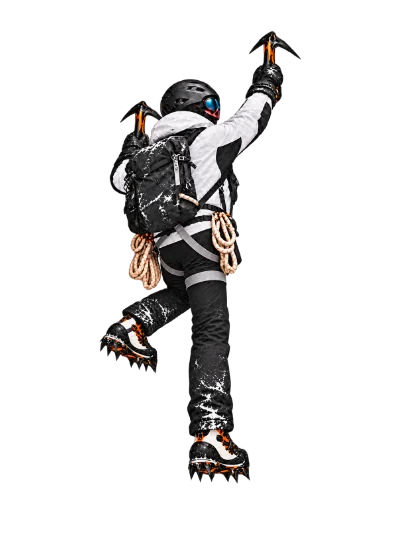
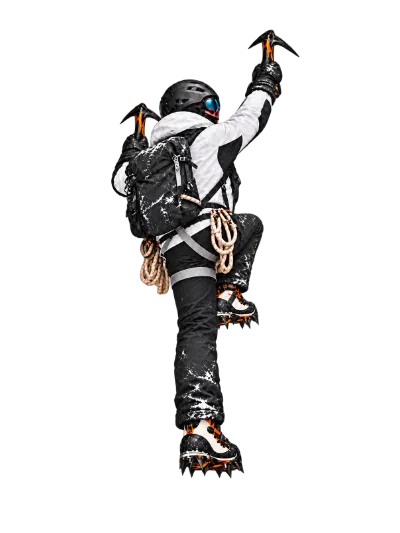
Tuck the left climbing knee behind the support leg

diff --git a/_includes/expedition.html b/_includes/expedition.html
@@ -22,7 +22,7 @@
         <ellipse class="expedition-contact-shadow" data-expedition-contact rx="17" ry="5" filter="url(#expedition-contact-blur)" />
         <g class="expedition-climber" data-expedition-climber>
           <svg x="-54" y="-106" width="88" height="117" viewBox="0 0 400 533" overflow="visible">
-            <image data-climber-frame-primary href="{{ '/assets/media/ascent-climber-frame-01.webp' | relative_url }}?v=ascent-17" width="400" height="533" />
+            <image data-climber-frame-primary href="{{ '/assets/media/ascent-climber-frame-01.webp' | relative_url }}?v=ascent-18" width="400" height="533" />
           </svg>
         </g>
       </g>

diff --git a/_layouts/default.html b/_layouts/default.html
@@ -19,7 +19,7 @@
   <script src="{{ '/assets/js/site.js' | relative_url }}" defer></script>
   <script src="{{ '/assets/js/experience.js' | relative_url }}" defer></script>
   <script src="{{ '/assets/js/contact.js' | relative_url }}" defer></script>
-  {% if page.url == '/journey/' %}<script src="{{ '/assets/js/expedition.js' | relative_url }}?v=ascent-17" defer></script>{% endif %}
+  {% if page.url == '/journey/' %}<script src="{{ '/assets/js/expedition.js' | relative_url }}?v=ascent-18" defer></script>{% endif %}
 </head>
 <body data-baseurl="{{ site.baseurl }}">
   {% include header.html %}

diff --git a/PROJECT_STATUS.md b/PROJECT_STATUS.md
@@ -1,10 +1,10 @@
 # Aidan Chen portfolio — persistent handoff
 
-Updated: October 12, 2026 (America/Los_Angeles).
+Updated: October 14, 2026 (America/Los_Angeles).
 
 ## Current state
 
-**The approved site design remains intact. The dedicated Ascent uses twelve complete black-and-white mountaineer frames with three clear leg states:** both straight, left bent/right straight, and right bent/left straight. The raised left boot now appears on image-left of the right support leg, making the left and right phases visually distinct. The foot-turn-only pose has been removed. A single opaque full-body pose is shown at a time; one cycle still spans two entries, preserving scroll pace. The self-service Markdown workflow, original content, four navigation destinations, existing links and approved page structure remain intact. Earlier Firefox/WebKit results predate this latest refinement; their executables are unavailable in this environment. Nothing has been pushed, merged or deployed.
+**The approved site design remains intact. The dedicated Ascent uses twelve complete black-and-white mountaineer frames with three leg positions:** both straight, left bent/right straight, and right bent/left straight. The left/far leg now bends **behind the straight right leg toward the image-right wall**; the outward image-left bend was rejected and removed. The foot-turn-only pose stays removed. A single opaque full-body pose is shown at a time; one cycle still spans two entries, preserving scroll pace. The self-service Markdown workflow, original content, four navigation destinations, existing links and approved page structure remain intact. Earlier Firefox/WebKit results predate this latest refinement; their executables are unavailable in this environment. Nothing has been pushed, merged or deployed.
 
 - Active repository: `C:/Users/super/Documents/ChatGPT/portfolio website remodel/portfolio-v2`.
 - Branch: `codex/portfolio-v2`, based on `da50b14` (`main`).
@@ -13,7 +13,16 @@ Updated: October 12, 2026 (America/Los_Angeles).
 - Local preview: `http://127.0.0.1:4173/`, serving production `_site` output.
 - Parent workspace `PROJECT_STATUS.md` points here. This is the canonical handoff.
 
-## October 12 left-leg clarity and foot-turn removal — latest handoff
+## October 14 left knee behind the support leg — latest handoff
+
+- Completed: corrected frames 02–07 by restoring the matching complete illustrations from `d6013f4`: the left/far thigh passes behind the straight right leg, with its raised knee and boot extending to image-right toward the wall. This follows the user's explicit clarification after rejecting the outward/leftward bent-knee candidates. Regenerated the six affected WebPs and bumped asset URLs to `ascent-18`. The removed foot-turn frame remains absent. Page design, route, camera, easing, two-entry cycle duration and the other frames are unchanged.
+- Currently in progress: none after this scoped correction. The local preview server was restarted at `http://127.0.0.1:4173/`.
+- Decisions: three leg positions are carried through twelve complete full-body frames to retain the existing arm sequence. Anatomical left does NOT mean its knee must appear on image-left: the far thigh belongs behind the near straight leg, and the bent knee faces the image-right wall. Do not reintroduce the rejected outward heel curl to make left/right easier to distinguish. Whole figures remain opaque, without rotating limb pieces or crossfades. Generated candidates from this session were rejected and were not installed.
+- Known issues: the gait remains a discrete illustrated sequence, with visible state changes during slow scrubbing; it is not physically simulated or video. Far-leg depth relies on occlusion and can be subtle at small sizes. Exact ice-tool and crampon contact remains illustrative. Real-device motion approval, Firefox/WebKit runners, branch-only Linux CI and live custom-domain verification remain outstanding. Nothing has been pushed or merged.
+- Testing: baseline Ascent test passed after restarting the preview; production Jekyll build and focused Chrome Ascent checks passed after correction. Reviewed the twelve-frame sheet and 26-position rendered mountain sheet. Four actual wheel gestures traversed all twelve frames in order forward/reverse with zero skipped poses; rendering samples ranged from 159 to 265 per gesture. Updated the pixel check to require raised boots on the wall-facing side rather than the erroneous image-left requirement. Site integrity passed (26 originals unchanged, nine post routes, 47 pages, 1,688 references); Git whitespace checked. Broader Chrome suite was not repeated for this art/cache-only correction; its prior pass is recorded below.
+- **Exact recommended next task:** review the left/far-leg overlap on the local `/journey/` page, particularly 02–07, at slow and moderate scroll speeds. Preserve the rightward bend behind the supporting right leg. If accepted, resume Firefox/WebKit, Linux CI and domain checks before considering any production merge.
+
+## October 12 left-leg clarity and foot-turn removal — earlier handoff, superseded by October 14
 
 - Completed: edited the complete figure art for the three left-leg-bent arm positions (02/03, 04/05, 06/07) so the raised left knee and boot project to image-left of the straight right support leg; both boot toes still point toward image-right. Removed the ineffective boot-turn drawing formerly at frame 10 and renumbered 11–13 as 10–12. Regenerated twelve WebPs and bumped Ascent asset URLs to `ascent-17`. Kept the page design, mountain, torso/arm reach order, right-facing outfit, camera, easing, and two-entry cycle duration.
 - Currently in progress: none after this scoped correction. Local preview only, on `codex/portfolio-v2`.

diff --git a/docs/ASCENT_ART.md b/docs/ASCENT_ART.md
@@ -10,7 +10,7 @@ The mountain backdrop, close ice wall and climber poses are original generated i
 - Earlier orange climber source: `assets/img/ascent-climber-frames.png`; its first transparent pose remains at `assets/media/ascent-climber-01.webp` for provenance, but is no longer loaded by the page. That sheet did not provide the current black-and-white frame sequence.
 - Earlier black-and-white climber source: `assets/img/ascent-climber-alpine.png` (1086 × 1448, transparent); optimized single pose: `assets/media/ascent-climber-alpine.webp`. It informed the current clothing, gear and view angle. The hinged raster-limb rig that cut up this painting was removed after it repeatedly produced broken-looking joints.
 - Current animation sources: twelve individual transparent **complete figure** drawings in `assets/img/ascent-climber-sequence/pose-01.png` through `pose-12.png`. The intermediate drawings were edited from preceding whole poses, retaining the right-facing rear-three-quarter character and right-facing tools. The gait takes its restrained alternating hand/foot rhythm from the user-supplied [ladder-climbing animation reference](https://www.youtube.com/watch?v=d-m-HuN-PkU); no ladder appears on the site. Both legs and crampon boots are visible in every image. Earlier 2 × 2 sprite sheets are preserved in Git history. `npm run build:climber-frames` aligns the goggles and exports twelve 400 × 533 WebPs. `node scripts/preview_climber_frames.cjs` and `node scripts/preview_climber_motion.cjs` produce visual QA contact sheets in `test-results/`.
-- The twelve whole-body frames span **two** journal entries, retaining the approved scroll pace. Leg motion is constrained to three clear states: both legs straight (01, 08–09), anatomical left leg bent with its raised boot visibly to image-left of the straight right support leg (02–07), and anatomical right leg bent to image-right while the left supports straight (10–12). The boot-only-turn drawing previously at frame 10 was removed; the following drawings were renumbered. The sequence returns from right-bent to the both-straight first frame. Identical pairs hold selected poses while the existing arm reach order continues across the cycle. Only one complete image is visible at a time; the whole-image crossfade remains removed because it made the climber translucent. No separate arms, legs, jacket panels or gear are rotated or resized. The sequence was checked as a frame contact sheet and at 26 positions in the rendered wall scene. This remains an illustrated sequence, not filmed or physically simulated climbing; state changes are discrete. Reduced-motion holds the both-straight first pose. The outfit is unbranded black-and-white alpine technical gear. Asset/script URL version: `ascent-17`.
+- The twelve whole-body frames span **two** journal entries, retaining the approved scroll pace. The existing arm sequence uses three leg positions: both legs straight (01, 08–09), anatomical left/far leg bent **behind the straight right leg, toward the image-right wall** (02–07), and anatomical right/near leg bent forward while the left supports straight (10–12). The far-left knee and boot are partially occluded by the near straight leg; do not force them to image-left for readability, which caused the rejected backward-knee appearance. The October 14 correction restores the matching 02/04/06 full-body source poses from `d6013f4`, held in adjacent pairs. The boot-turn-only drawing removed in `dc676fd` stays removed. The sequence returns from right-bent to the both-straight first frame. Only one complete image is visible at a time; whole-figure crossfades remain removed because they made the climber translucent. No separate arms, legs, jacket panels or gear are rotated or resized. The sequence was checked as a frame contact sheet and at 26 positions in the rendered wall scene. This remains an illustrated sequence, not filmed or physically simulated climbing; state changes are discrete. Reduced-motion holds the both-straight first pose. The outfit is unbranded black-and-white alpine technical gear. Asset/script URL version: `ascent-18`.
 - The Home identity section reuses the existing Everest illustration through its 800 px WebP derivative. No new mountain asset was generated.
 
 Movement references: [Petzl's ice-climbing technique video](https://www.petzl.com/int/en/sport/tech-tips/basic-techniques/ice-climbing-technique---the-basics/Cascade-gestuelle_SPO_a771r000000PFoJAAW.html), [Petzl's Ice Climbing Basics access book](https://s3.amazonaws.com/Petzl_home_Prod/Accessbook/ACCESSBOOK-ICE-CLIMBING-EN-2018.pdf), and [REI's ice-climbing guidance](https://www.rei.com/learn/expert-advice/ice-climbing-waterfalls-alpine-walls.html) emphasize stable tool/foot placements and rising through the legs. These sources informed the illustration's rhythm; the individual drawn poses are not climbing instruction or a physical simulation.
